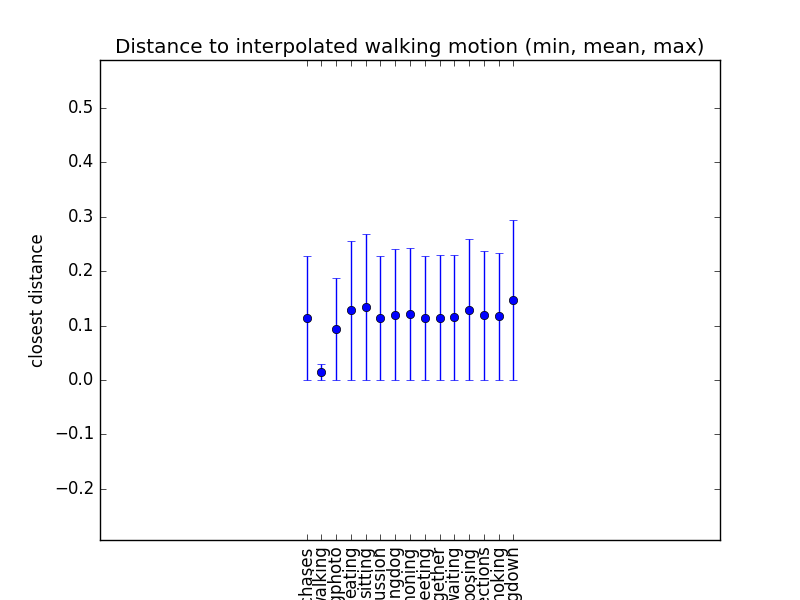
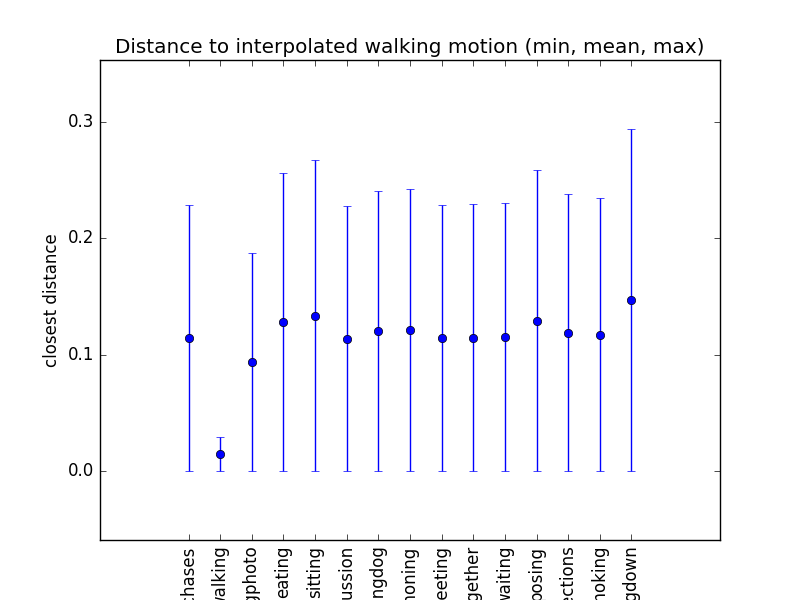
fix

diff --git a/RNN/utils/association_evaluation.py b/RNN/utils/association_evaluation.py
@@ -268,7 +268,7 @@ def plot_results(directory, model_name, action_type):
 		plt.xticks(x, [data['labels'][str(i)] for i in range(len(x))], rotation='vertical')
 		plt.xlabel('category')
 		plt.ylabel('closest distance')
-		plt.margins(1)
+		plt.margins(0.2)
 		plt.title('Distance to interpolated %s motion (min, mean, max)'%action_type)
 		plt.savefig(directory+'eval_generation-'+model_name+'.png')
 		plt.close()
@@ -284,7 +284,7 @@ def plot_results(directory, model_name, action_type):
 				[data['max'][i] for i in idx]+[data['max'][-1], data['max'][-2]]]
 		plt.errorbar(x, y, yerr=yerr, fmt='o')
 		plt.xticks(x, map(str, range(1, len(x)-1)) + ['z', 'raw'])
-		plt.margins(1)
+		plt.margins(0.2)
 		plt.xlabel('centers')
 		plt.ylabel('distance to other %s motions'%action_type)
 		plt.title('Centers comparison for %s (min, mean, max)'%action_type)
